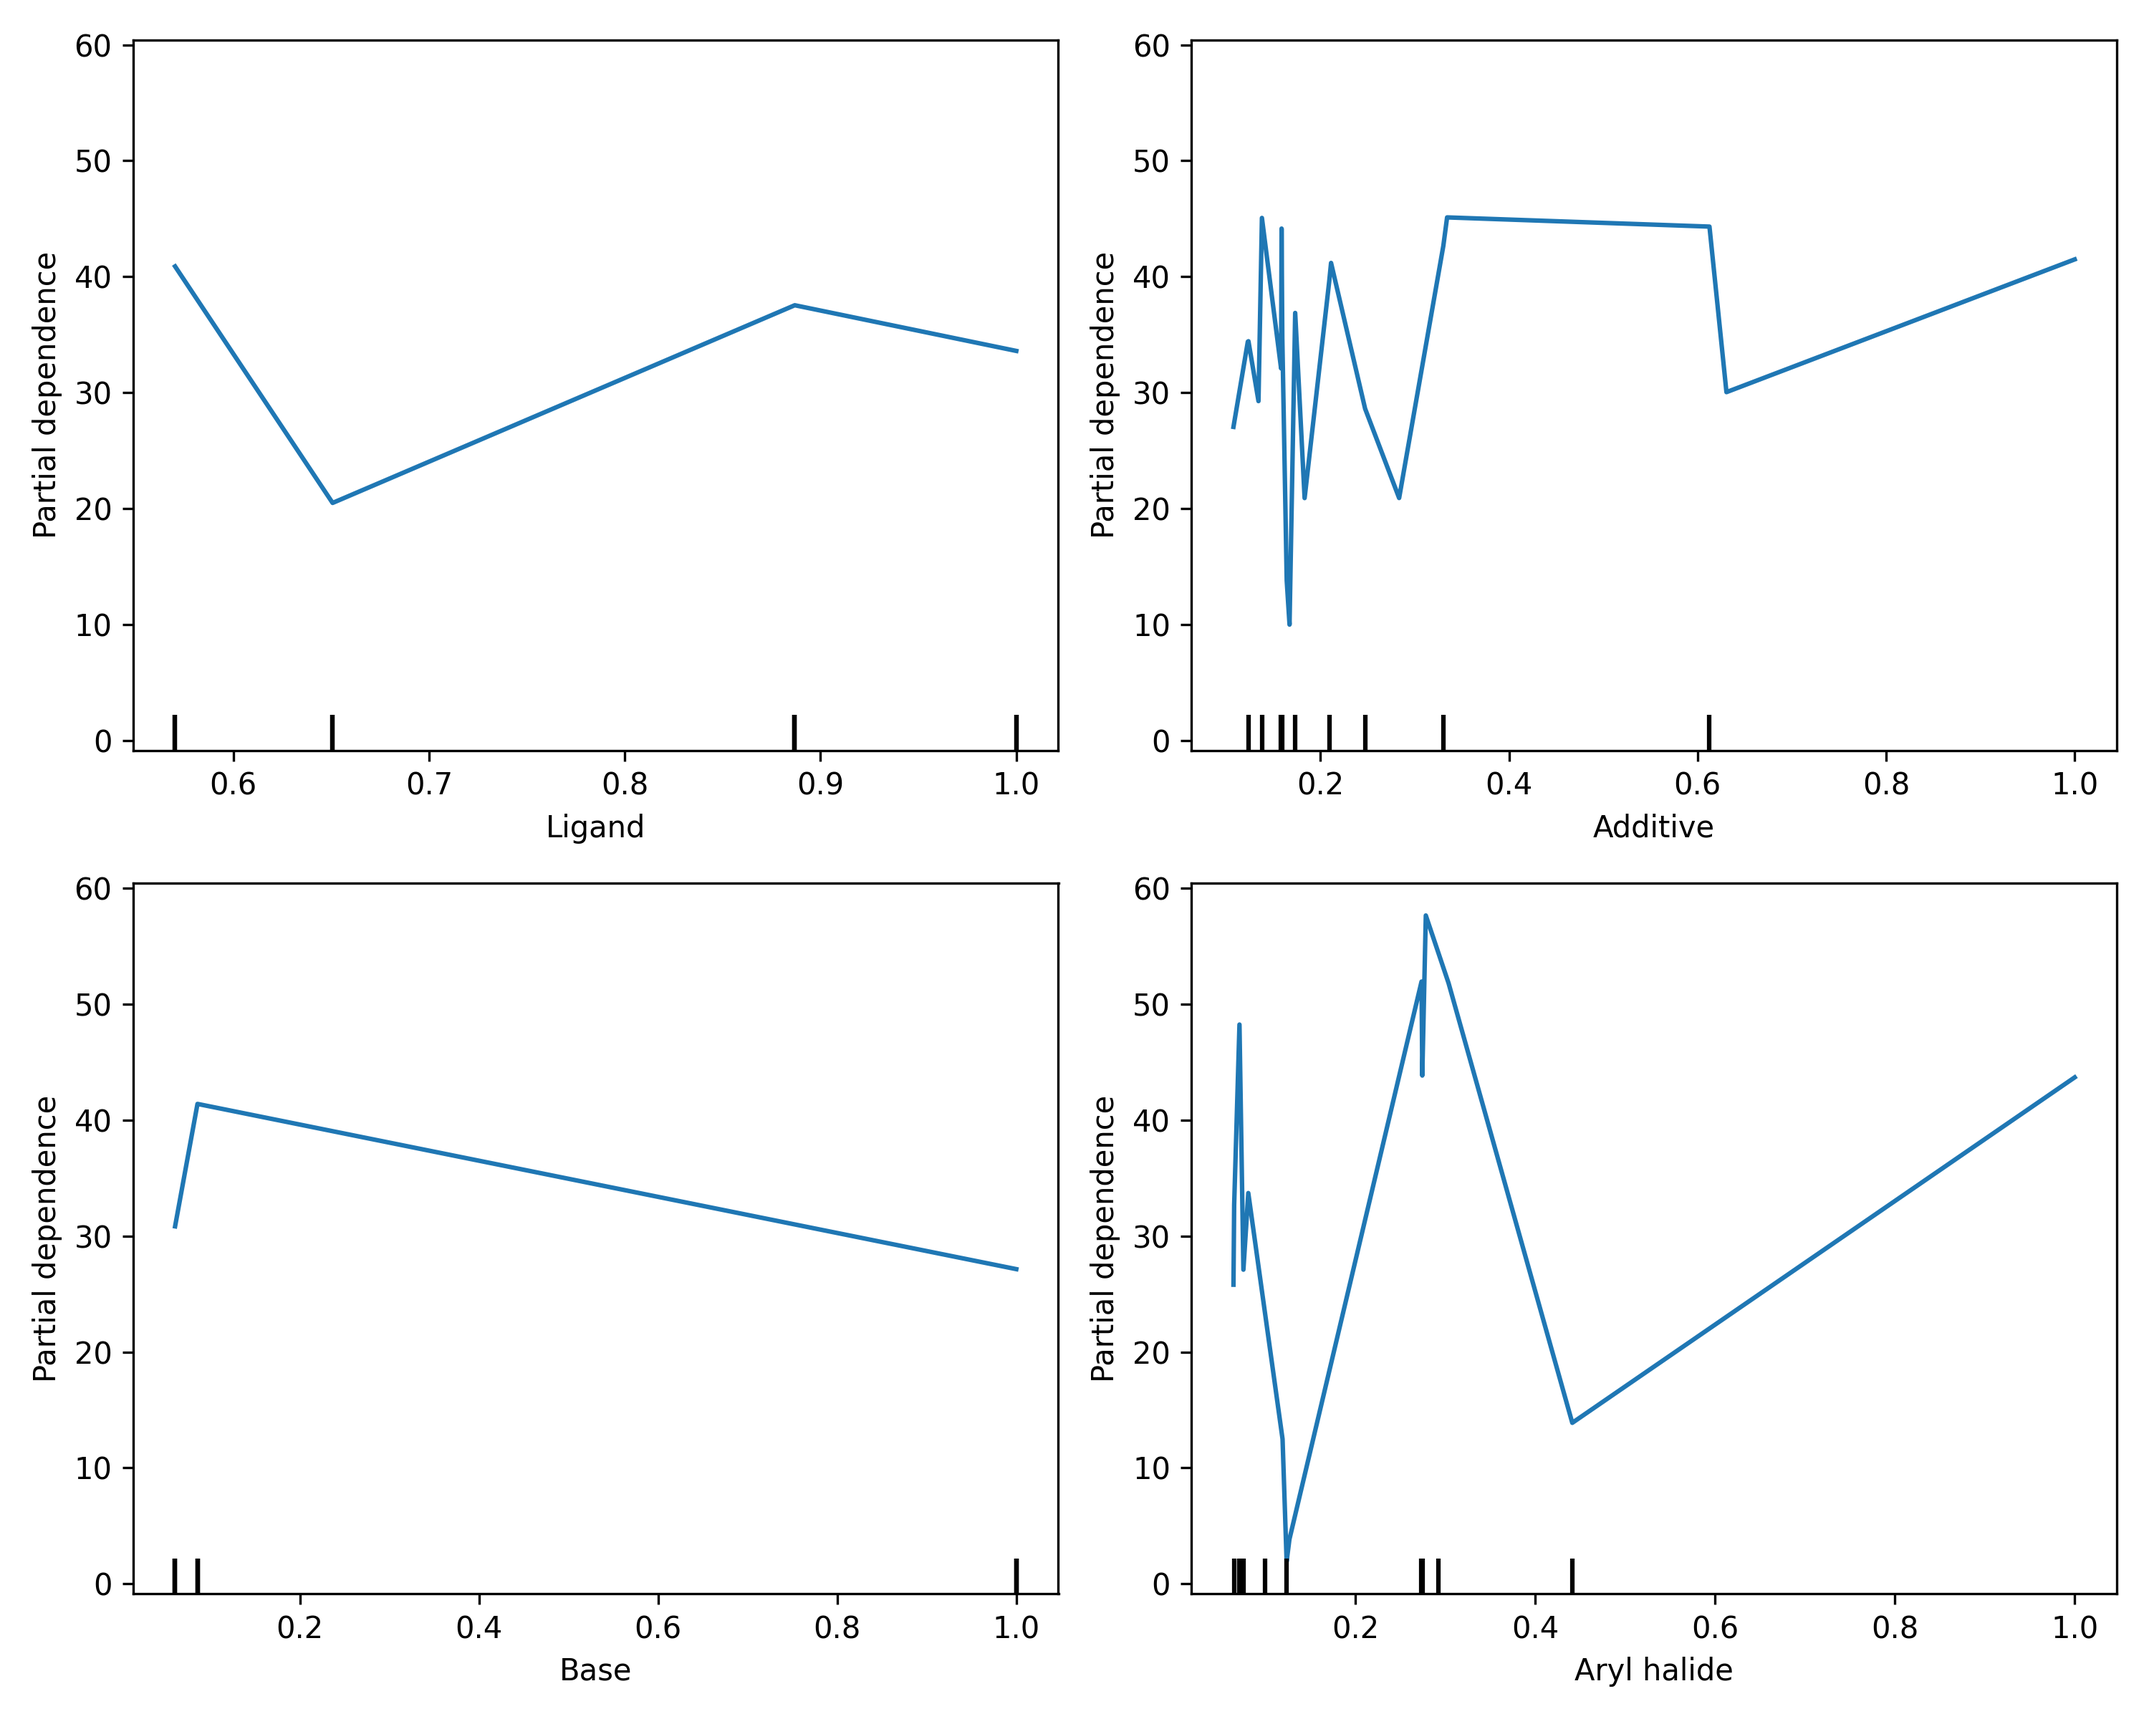
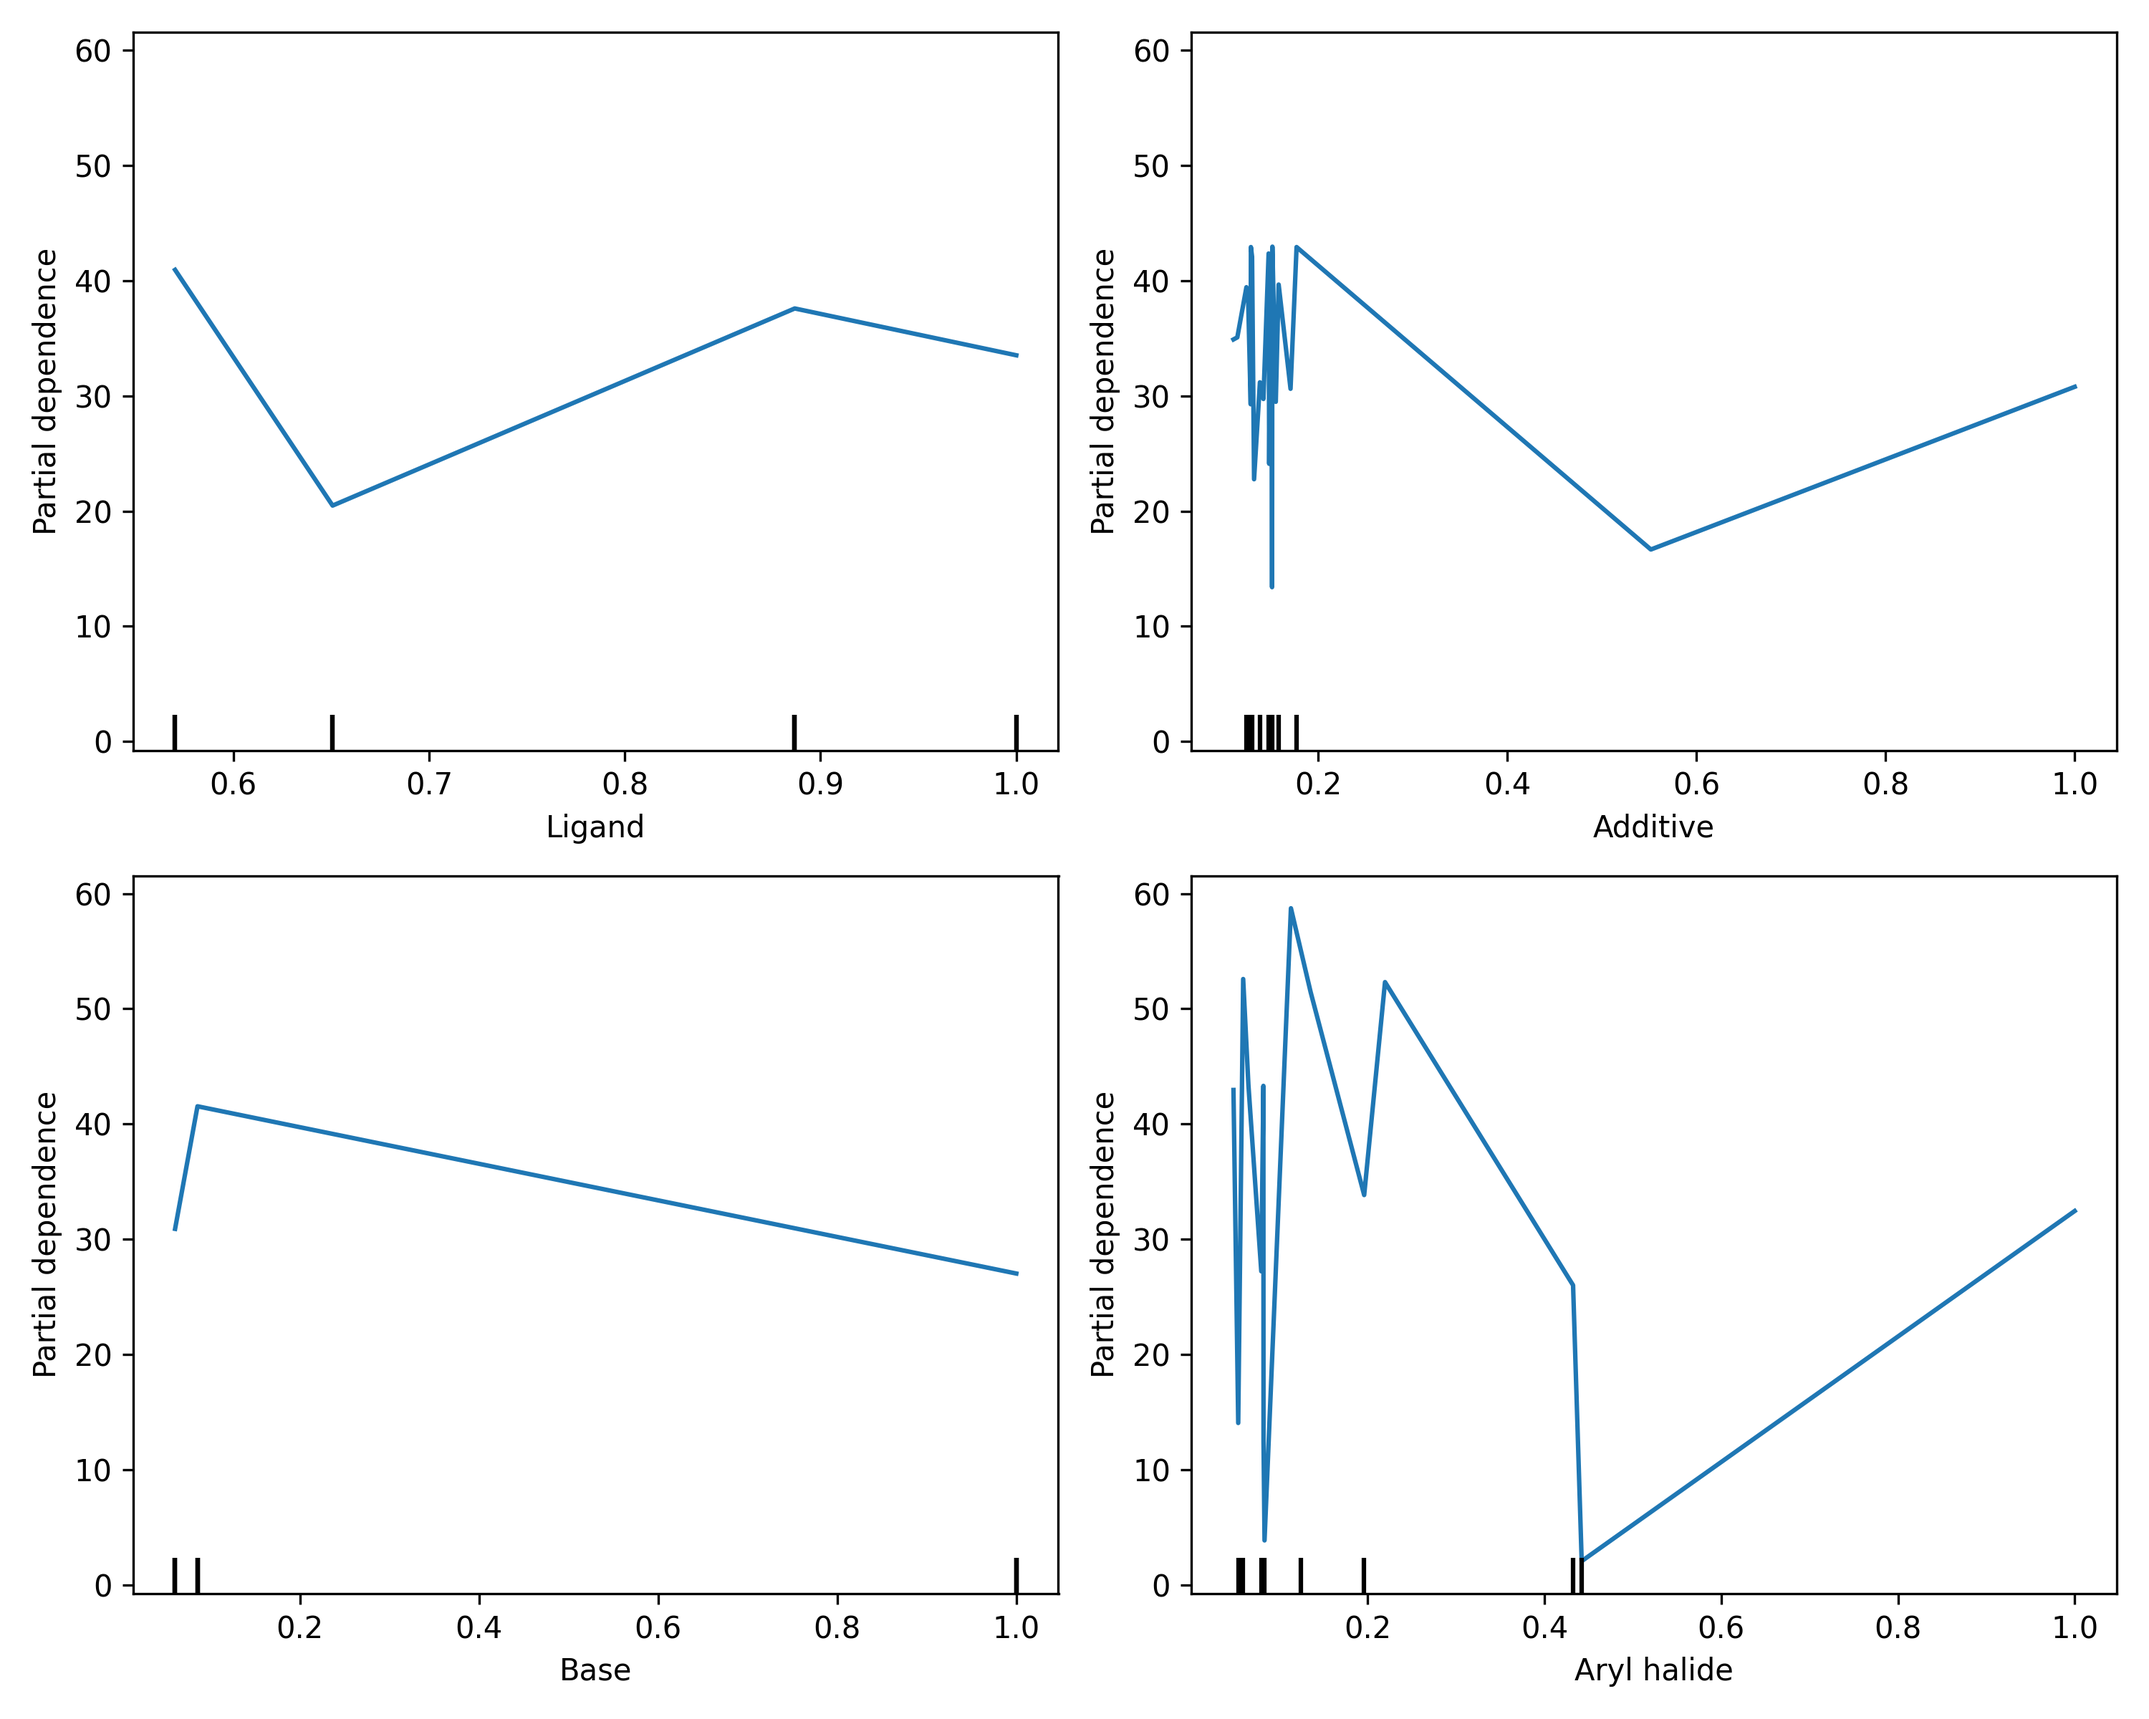
Add AdaBoost regression pipeline and update plots
Introduces AdaBoost.py with a regression pipeline including feature importance, SHAP, and PDP analysis, plus a Tkinter GUI for CSV selection. Updates several plot images to reflect new or revised results.

diff --git a/modules/new/AdaBoost.py b/modules/new/AdaBoost.py
@@ -1,0 +1,154 @@
+import pandas as pd
+from sklearn.ensemble import AdaBoostRegressor
+from sklearn.tree import DecisionTreeRegressor
+from sklearn.model_selection import train_test_split
+from sklearn.metrics import mean_squared_error, r2_score
+import matplotlib.pyplot as plt
+import sys
+import tkinter as tk
+from tkinter import filedialog
+import shap
+from sklearn.inspection import PartialDependenceDisplay
+import warnings
+import numpy as np
+
+
+warnings.filterwarnings("ignore", message="X has feature names, but")
+
+
+def run_pipeline(filename):
+    data = pd.read_csv(filename)
+
+    # === Separate features and target ===
+    X = data.iloc[:, :-1]
+    y = data.iloc[:, -1]
+
+    # === Train-test split ===
+    X_train, X_test, y_train, y_test = train_test_split(X, y, test_size=0.3, random_state=42)
+
+    # === AdaBoost model ===
+    model = AdaBoostRegressor(
+        estimator=DecisionTreeRegressor(max_depth=3),
+        n_estimators=50,
+        learning_rate=1.0,
+        random_state=42
+    )
+    model.fit(X_train, y_train)
+
+    # === Predictions and evaluation ===
+    y_pred = model.predict(X_test)
+    mse = mean_squared_error(y_test, y_pred)
+    r2 = r2_score(y_test, y_pred)
+
+    print(f"R² Score: {r2:.4f}")
+    print(f"Mean Squared Error: {mse:.2f}")
+
+    # === Feature importance ===
+    importances = model.feature_importances_
+    feature_names = X.columns
+
+    plt.figure(figsize=(8, 5))
+    plt.bar(feature_names, importances, color='steelblue')
+    plt.title('Feature Importance in Reaction Yield Prediction')
+    plt.ylabel('Importance Score')
+    plt.xlabel('Variables')
+    plt.xticks(rotation=45)
+    plt.tight_layout()
+    plt.show()
+
+    # === SHAP analysis ===
+    # Select one of the base estimators from AdaBoost
+    base_model = model.estimators_[0]  # You can loop through more if needed
+
+    # Create SHAP explainer for the base decision tree
+    explainer = shap.Explainer(base_model.predict, X_test)
+    shap_values = explainer(X_test)
+
+    # Plot SHAP values
+    shap.summary_plot(shap_values, X_test)
+
+    # Collect SHAP values from multiple estimators
+    shap_matrix = []
+    for base_model in model.estimators_[:3]:
+        explainer = shap.Explainer(base_model.predict, X_test)
+        shap_values = explainer(X_test)
+        shap_matrix.append(shap_values.values)
+
+    # Average SHAP values across estimators
+    avg_shap_values = np.mean(shap_matrix, axis=0)
+
+    # Plot the averaged SHAP values
+    shap.summary_plot(avg_shap_values, X_test)
+
+
+    # === PDP analysis ===
+    print("\nGenerating Partial Dependence Plots...")
+    PartialDependenceDisplay.from_estimator(model, X_train, features=list(feature_names), kind='average')
+    plt.tight_layout()
+    plt.show()
+
+
+##def run_pipeline(filename):
+##    data = pd.read_csv(filename)
+##
+##    # === Separate features and target ===
+##    # Assumes last column is the yield
+##    X = data.iloc[:, :-1]
+##    y = data.iloc[:, -1]
+##
+##    # === Train-test split ===
+##    X_train, X_test, y_train, y_test = train_test_split(X, y, test_size=0.3, random_state=42)
+##
+##    # === AdaBoost model ===
+##    model = AdaBoostRegressor(
+##        estimator=DecisionTreeRegressor(max_depth=3),
+##        n_estimators=50,
+##        learning_rate=1.0,
+##        random_state=42
+##    )
+##    model.fit(X_train, y_train)
+##    
+##    # === Predictions and evaluation ===
+##    y_pred = model.predict(X_test)
+##    mse = mean_squared_error(y_test, y_pred)
+##    r2 = r2_score(y_test, y_pred)
+##    
+##    print(f"R² Score: {r2:.4f}")
+##    print(f"\nMean Squared Error: {mse:.2f}")
+##
+##    # === Feature importance ===
+##    importances = model.feature_importances_
+##    feature_names = X.columns
+##
+##    # === Plotting ===
+##    plt.figure(figsize=(8, 5))
+##    plt.bar(feature_names, importances, color='steelblue')
+##    plt.title('Feature Importance in Reaction Yield Prediction')
+##    plt.ylabel('Importance Score')
+##    plt.xlabel('Variables')
+##    plt.xticks(rotation=45)
+##    plt.tight_layout()
+##    plt.show()
+
+def load_csv():
+    # Open file dialog to select CSV
+    file_path = filedialog.askopenfilename(
+        title="Select CSV File",
+        filetypes=[("CSV files", "*.csv")]
+    )
+    
+    if file_path:
+        run_pipeline(file_path)
+
+
+if __name__ == "__main__":
+    root = tk.Tk()
+    root.title("ADA Boost pdp shap")
+    root.geometry("300x150")
+
+    # Add button to trigger CSV loading
+    load_button = tk.Button(root, text="Load CSV File", command=load_csv)
+    load_button.pack(pady=50)
+
+    # Run the GUI loop
+    root.mainloop()
